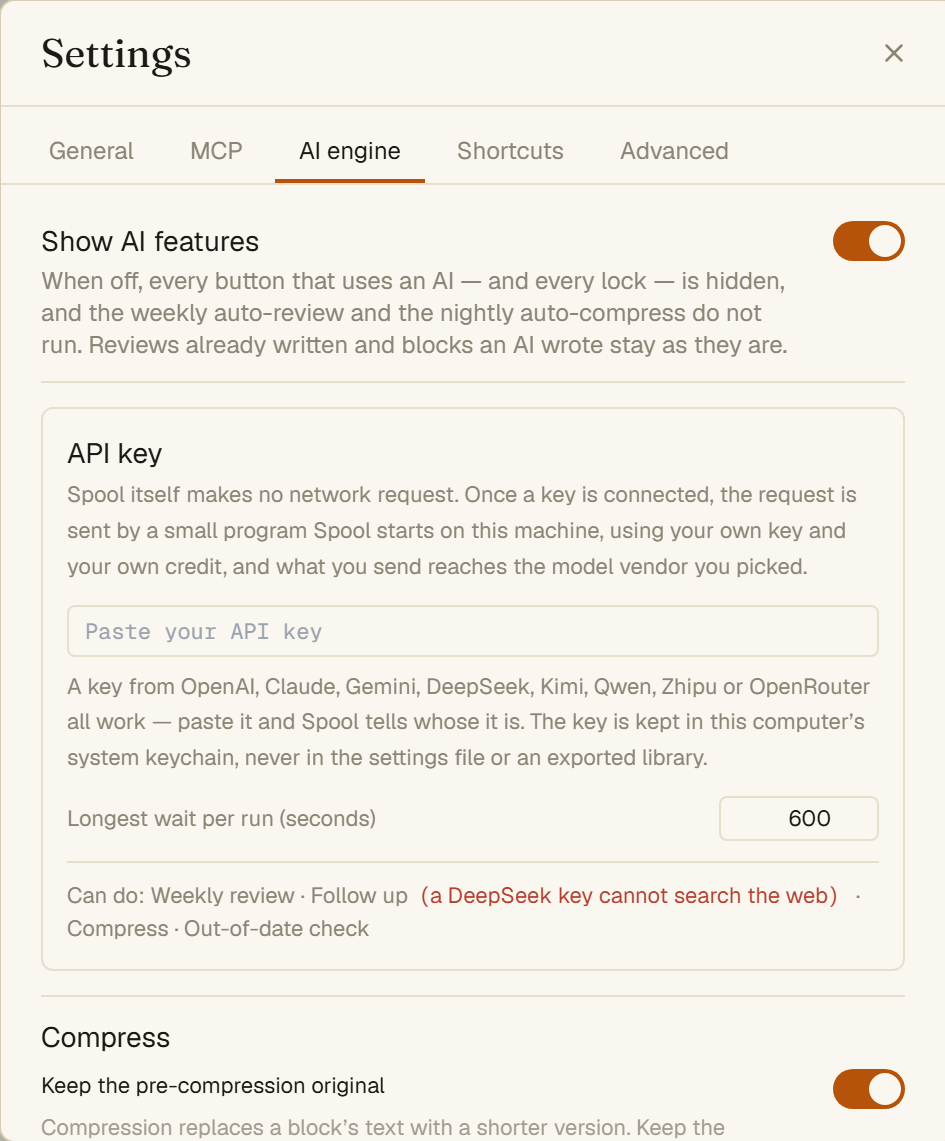
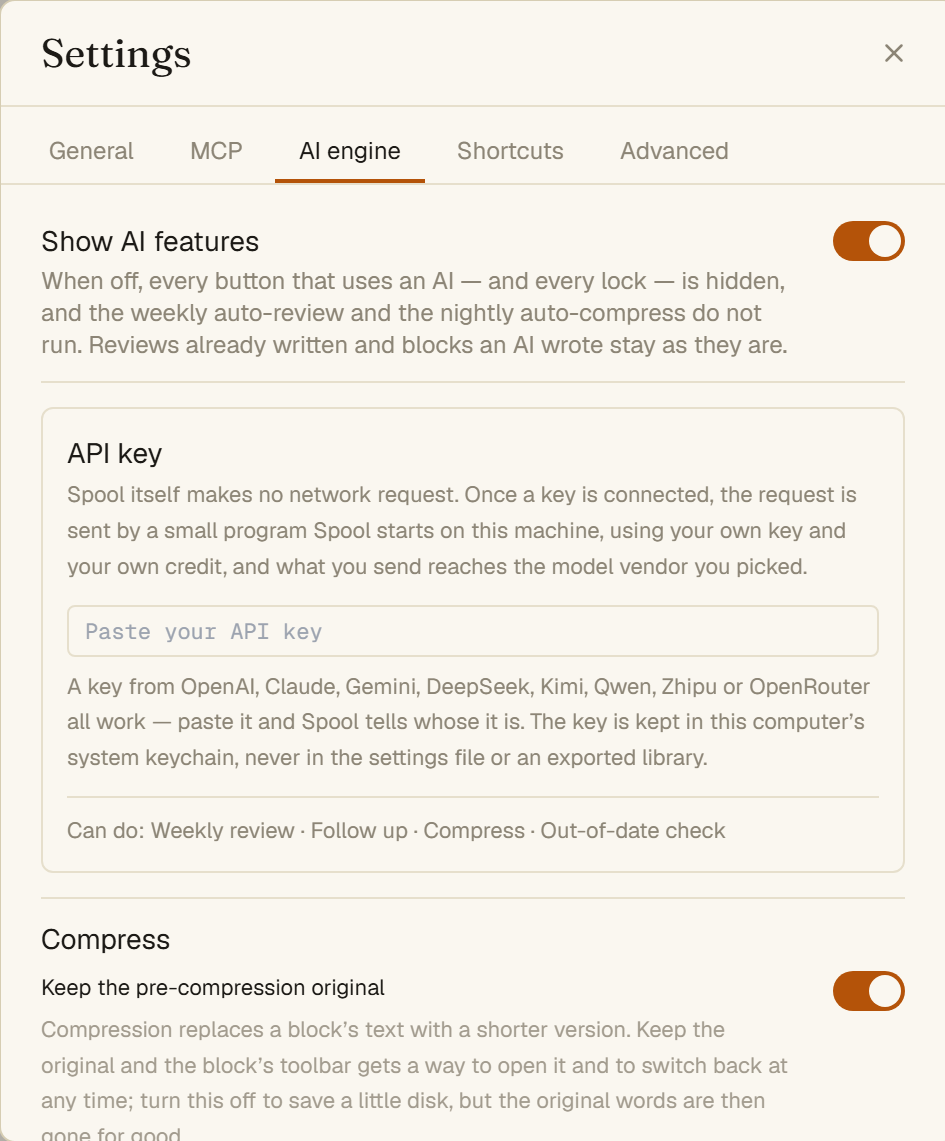
fix(site): P19 教程 Windows 的 AI 引擎那张重拍成「还没有 key」的正常样子（之前那张的演示数据开着 API 开关却没有 key，多出一句「DeepSeek 的 key 不能联网搜」，普通用户看不到）；第 7 章 Windows 那句补上 key 在 Windows 上存在数据文件夹的 api-key 文件里、不在钥匙串、点「断开」会删掉

Changed region(s): [[0.0307, 0.7055, 0.9206, 1.0], [0.8593, 0.8282, 0.982, 0.8896], [0.8593, 0.9202, 0.9513, 0.9816]]

diff --git a/site/zh/guide.html b/site/zh/guide.html
@@ -462,9 +462,9 @@
 </li>
 </ul>
 </aside>
-<aside class="guide-win guide-inline"><p><strong>Windows 上</strong>：目前只能用 API key。</p>
+<aside class="guide-win guide-inline"><p><strong>Windows 上</strong>：目前只能用 API key。key 存在 Spool 数据文件夹里的一个文件里（<code>%APPDATA%\com.oceanjin.spool\api-key</code>），不在系统钥匙串里；点「断开」会把它删掉。</p>
 <figure class="guide-shot">
-  <a href="../assets/guide/zh/w03-engine.webp" title="打开原图"><img class="shot" src="../assets/guide/zh/w03-engine.webp" width="478" height="550" alt="Windows：设置 → AI 引擎里只有 API key 这一种。" loading="lazy" decoding="async"></a>
+  <a href="../assets/guide/zh/w03-engine.webp" title="打开原图"><img class="shot" src="../assets/guide/zh/w03-engine.webp" width="478" height="518" alt="Windows：设置 → AI 引擎里只有 API key 这一种。" loading="lazy" decoding="async"></a>
   <figcaption class="shot-caption">Windows：设置 → AI 引擎里只有 API key 这一种。</figcaption>
 </figure>
 </aside>

diff --git a/site/guide.html b/site/guide.html
@@ -462,7 +462,7 @@
 </li>
 </ul>
 </aside>
-<aside class="guide-win guide-inline"><p><strong>On Windows</strong>: for now the API key is the only way.</p>
+<aside class="guide-win guide-inline"><p><strong>On Windows</strong>: for now the API key is the only way. There the key is kept in a file in Spool's data folder (<code>%APPDATA%\com.oceanjin.spool\api-key</code>), not in a system keychain; <strong>Disconnect</strong> deletes it.</p>
 <figure class="guide-shot">
   <a href="assets/guide/en/w03-engine.webp" title="Open the full-size picture"><img class="shot" src="assets/guide/en/w03-engine.webp" width="472" height="570" alt="Windows: Settings → AI engine has only the API key." loading="lazy" decoding="async"></a>
   <figcaption class="shot-caption">Windows: Settings → AI engine has only the API key.</figcaption>
